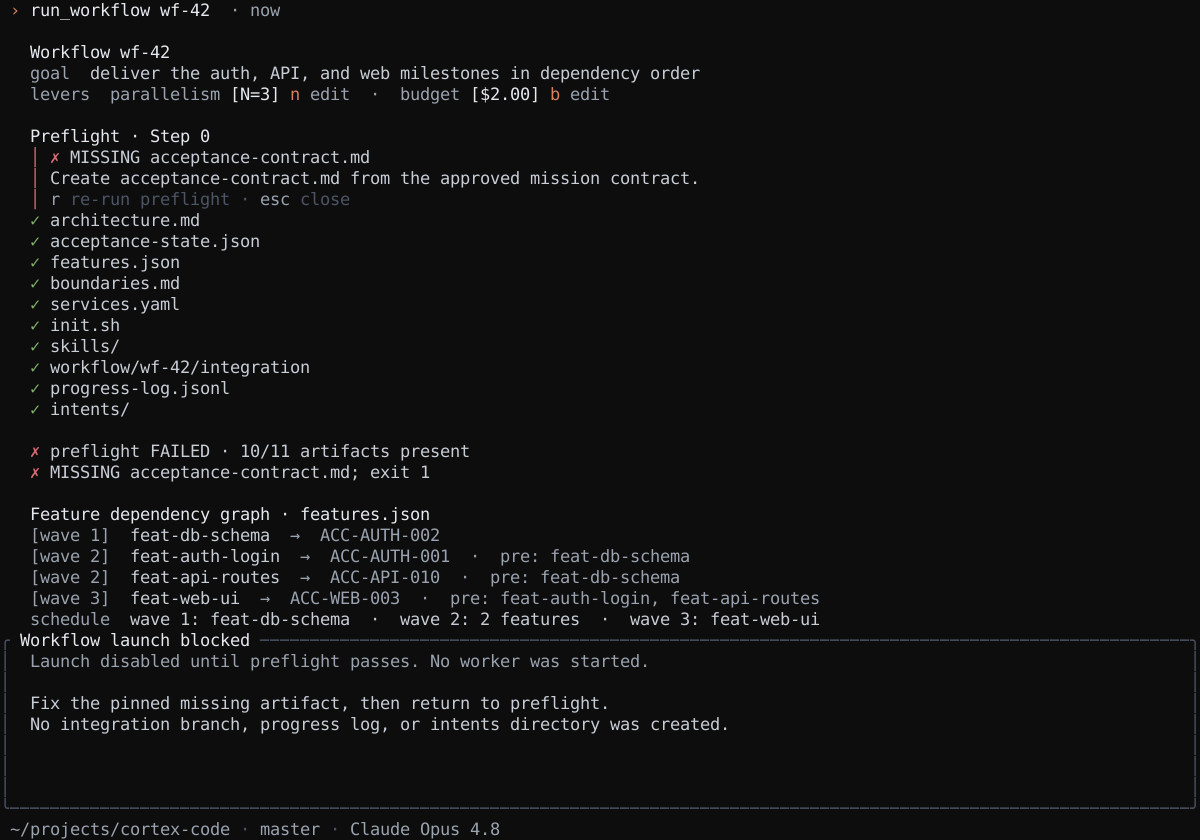
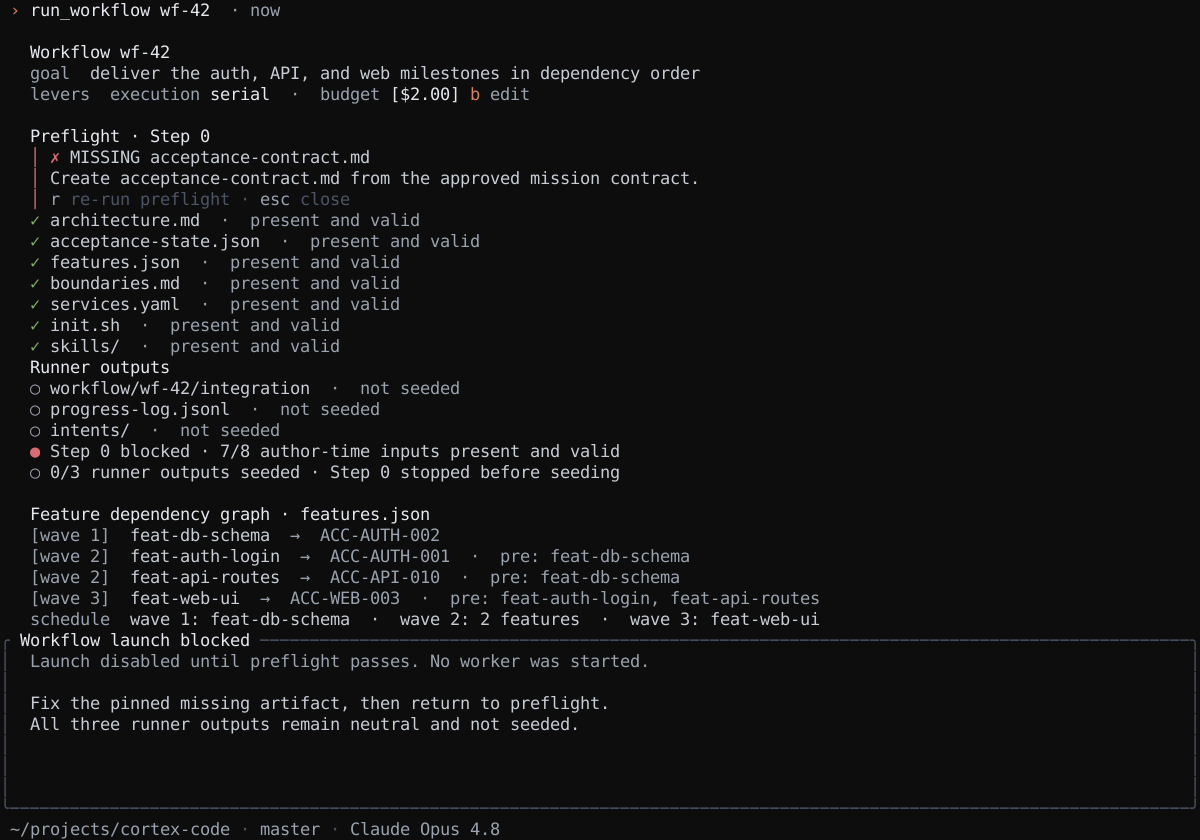
fix(mockups-v2): clarify workflow Step 0 lifecycle

diff --git a/tools-throwaway/mockup-harness/src/screens/workflow_launch.rs b/tools-throwaway/mockup-harness/src/screens/workflow_launch.rs
@@ -6,7 +6,7 @@ use ratatui::{
 
 use crate::chrome::{self, c, m, t, StatusLine, ACCENT, BRIGHT, OK};
 
-const ARTIFACTS: &[&str] = &[
+const AUTHOR_TIME_INPUTS: &[&str] = &[
     "architecture.md",
     "acceptance-contract.md",
     "acceptance-state.json",
@@ -32,10 +32,9 @@ pub fn render(f: &mut Frame) {
         ]),
         Line::from(vec![
             Span::raw("   "),
-            m("levers  parallelism "),
-            c("[N=3]", BRIGHT),
-            c(" n", ACCENT),
-            m(" edit  ·  budget "),
+            m("levers  execution "),
+            c("serial", BRIGHT),
+            m("  ·  budget "),
             c("[$2.00]", BRIGHT),
             c(" b", ACCENT),
             m(" edit"),
@@ -43,36 +42,39 @@ pub fn render(f: &mut Frame) {
         Line::from(""),
         chrome::agent_head("Preflight · Step 0"),
     ];
-    lines.extend(ARTIFACTS.iter().map(|artifact| {
+    lines.extend(AUTHOR_TIME_INPUTS.iter().map(|artifact| {
         Line::from(vec![
             Span::raw("   "),
             c("✓ ", OK),
             t(artifact),
+            m("  ·  present and valid"),
         ])
     }));
     lines.extend([
+        Line::from(""),
+        chrome::agent_head("Runner outputs · seeded by Step 0"),
         Line::from(vec![
             Span::raw("   "),
             c("✓ ", OK),
             t("workflow/wf-42/integration"),
-            m("  ·  runner-seeded"),
+            m("  ·  seeded by Step 0"),
         ]),
         Line::from(vec![
             Span::raw("   "),
             c("✓ ", OK),
             t("progress-log.jsonl"),
-            m("  ·  runner-seeded"),
+            m("  ·  seeded by Step 0"),
         ]),
         Line::from(vec![
             Span::raw("   "),
             c("✓ ", OK),
             t("intents/"),
-            m("  ·  runner-seeded"),
+            m("  ·  seeded by Step 0"),
         ]),
         Line::from(vec![
             Span::raw("   "),
             c("● ", OK),
-            t("preflight OK · 11/11 artifacts present"),
+            t("Step 0 complete · 8/8 author-time inputs present and valid · 3/3 runner outputs seeded by Step 0"),
         ]),
         Line::from(""),
         chrome::agent_head("Feature dependency graph · features.json"),
@@ -113,19 +115,19 @@ pub fn render(f: &mut Frame) {
         f,
         dock,
         "Launch workflow",
-        &[("enter", "launch"), ("esc", "cancel")],
+        &[("enter", "start workers"), ("esc", "cancel")],
     );
     let dock_lines = vec![
-        Line::from("  wf-42  ·  4 features  ·  wave 1 starts with feat-db-schema"),
+        Line::from("  wf-42  ·  4 features  ·  Step 0 seeded all runner outputs"),
         Line::from(""),
         Line::from(vec![
             Span::raw("  "),
             c("› ", BRIGHT),
-            t("Launch after this preflight"),
+            t("Start workers after Step 0"),
         ]),
         Line::from(vec![
             Span::raw("  "),
-            m("The runner will seed integration, progress log, and intents after launch."),
+            m("Integration, progress log, and intents are seeded before worker 1 starts."),
         ]),
     ];
     f.render_widget(Paragraph::new(dock_lines), inner);

diff --git a/tools-throwaway/mockup-harness/src/screens/workflow_launch_blocked.rs b/tools-throwaway/mockup-harness/src/screens/workflow_launch_blocked.rs
@@ -4,9 +4,9 @@ use ratatui::{
     Frame,
 };
 
-use crate::chrome::{self, c, m, t, StatusLine, ACCENT, BAD, BRIGHT, FAINT, OK};
+use crate::chrome::{self, c, m, t, StatusLine, ACCENT, BAD, BRIGHT, FAINT, MUTED, OK};
 
-const PRESENT_ARTIFACTS: &[&str] = &[
+const PRESENT_AUTHOR_TIME_INPUTS: &[&str] = &[
     "architecture.md",
     "acceptance-state.json",
     "features.json",
@@ -14,9 +14,6 @@ const PRESENT_ARTIFACTS: &[&str] = &[
     "services.yaml",
     "init.sh",
     "skills/",
-    "workflow/wf-42/integration",
-    "progress-log.jsonl",
-    "intents/",
 ];
 
 pub fn render(f: &mut Frame) {
@@ -38,10 +35,9 @@ pub fn render(f: &mut Frame) {
         ]),
         Line::from(vec![
             Span::raw("   "),
-            m("levers  parallelism "),
-            c("[N=3]", BRIGHT),
-            c(" n", ACCENT),
-            m(" edit  ·  budget "),
+            m("levers  execution "),
+            c("serial", BRIGHT),
+            m("  ·  budget "),
             c("[$2.00]", BRIGHT),
             c(" b", ACCENT),
             m(" edit"),
@@ -54,24 +50,43 @@ pub fn render(f: &mut Frame) {
         vec![t("Create acceptance-contract.md from the approved mission contract.")],
         recovery,
     ]));
-    lines.extend(PRESENT_ARTIFACTS.iter().map(|artifact| {
+    lines.extend(PRESENT_AUTHOR_TIME_INPUTS.iter().map(|artifact| {
         Line::from(vec![
             Span::raw("   "),
             c("✓ ", OK),
             t(artifact),
+            m("  ·  present and valid"),
         ])
     }));
     lines.extend([
-        Line::from(""),
+        chrome::agent_head("Runner outputs"),
         Line::from(vec![
             Span::raw("   "),
-            c("✗ ", BAD),
-            t("preflight FAILED · 10/11 artifacts present"),
+            c("○ ", MUTED),
+            t("workflow/wf-42/integration"),
+            m("  ·  not seeded"),
         ]),
         Line::from(vec![
             Span::raw("   "),
-            c("✗ ", BAD),
-            t("MISSING acceptance-contract.md; exit 1"),
+            c("○ ", MUTED),
+            t("progress-log.jsonl"),
+            m("  ·  not seeded"),
+        ]),
+        Line::from(vec![
+            Span::raw("   "),
+            c("○ ", MUTED),
+            t("intents/"),
+            m("  ·  not seeded"),
+        ]),
+        Line::from(vec![
+            Span::raw("   "),
+            c("● ", BAD),
+            t("Step 0 blocked · 7/8 author-time inputs present and valid"),
+        ]),
+        Line::from(vec![
+            Span::raw("   "),
+            c("○ ", MUTED),
+            t("0/3 runner outputs seeded · Step 0 stopped before seeding"),
         ]),
         Line::from(""),
         chrome::agent_head("Feature dependency graph · features.json"),
@@ -120,7 +135,7 @@ pub fn render(f: &mut Frame) {
         ]),
         Line::from(""),
         Line::from("  Fix the pinned missing artifact, then return to preflight."),
-        Line::from("  No integration branch, progress log, or intents directory was created."),
+        Line::from("  All three runner outputs remain neutral and not seeded."),
     ];
     f.render_widget(Paragraph::new(dock_lines), inner);
 }
